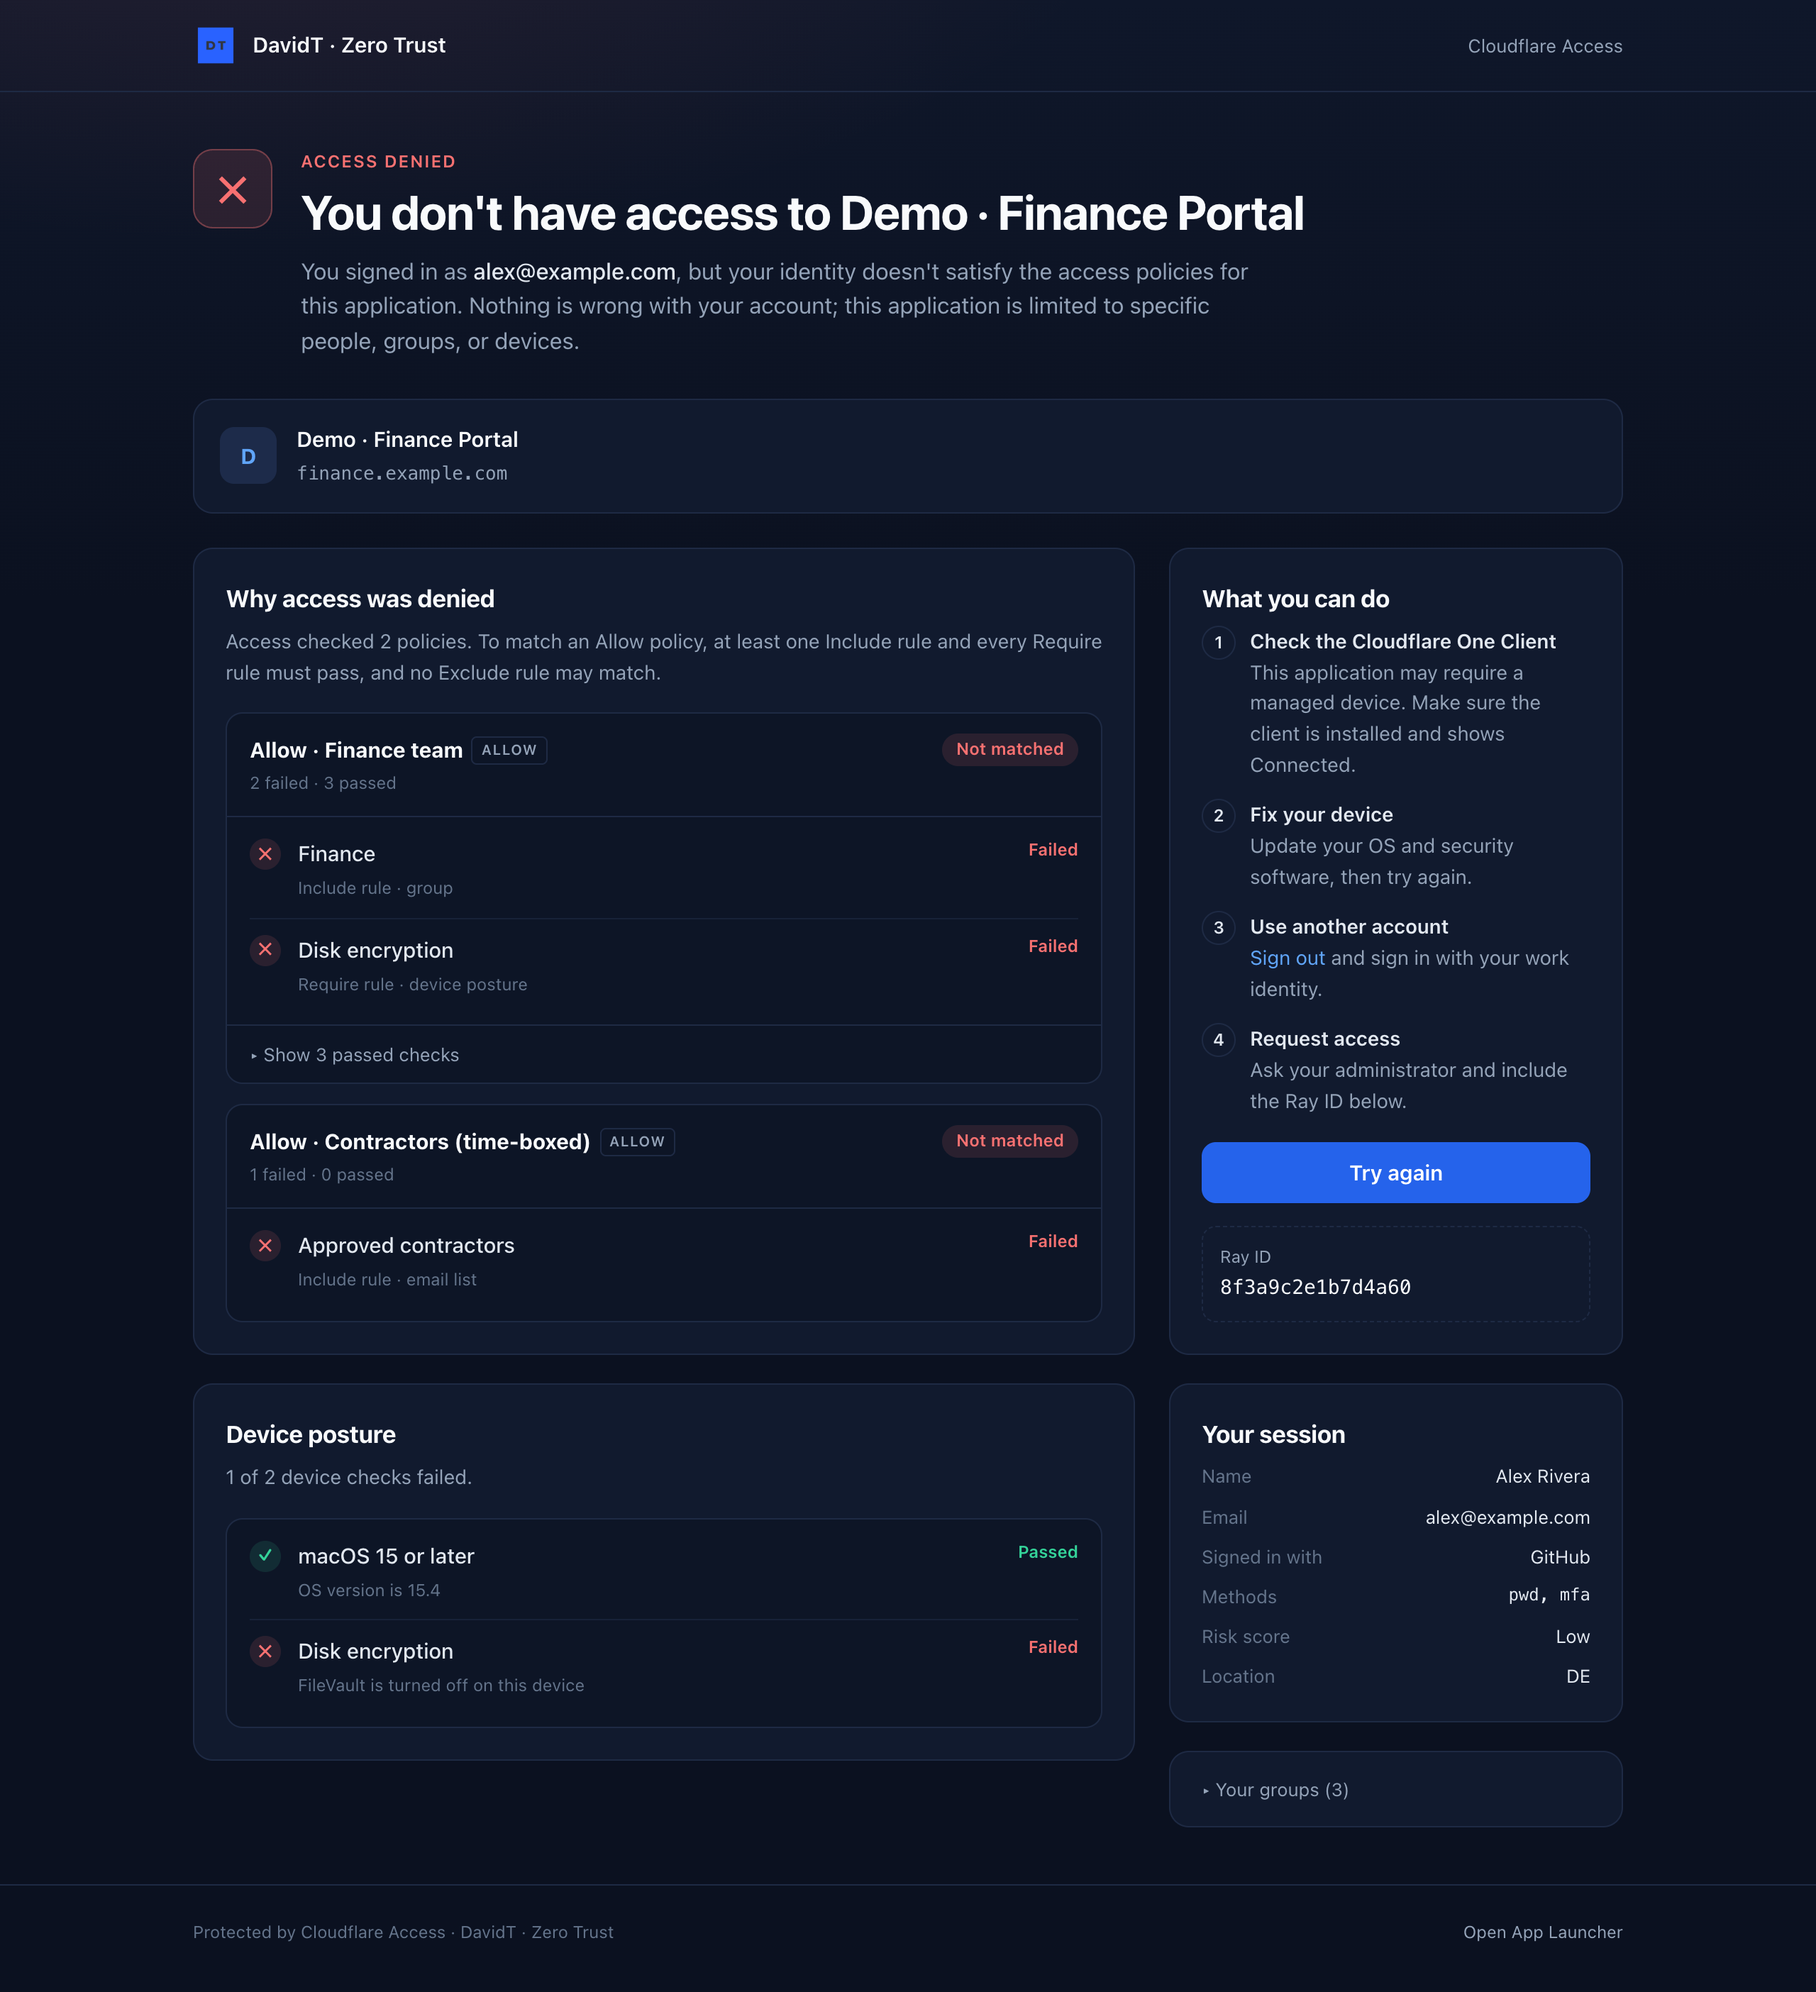
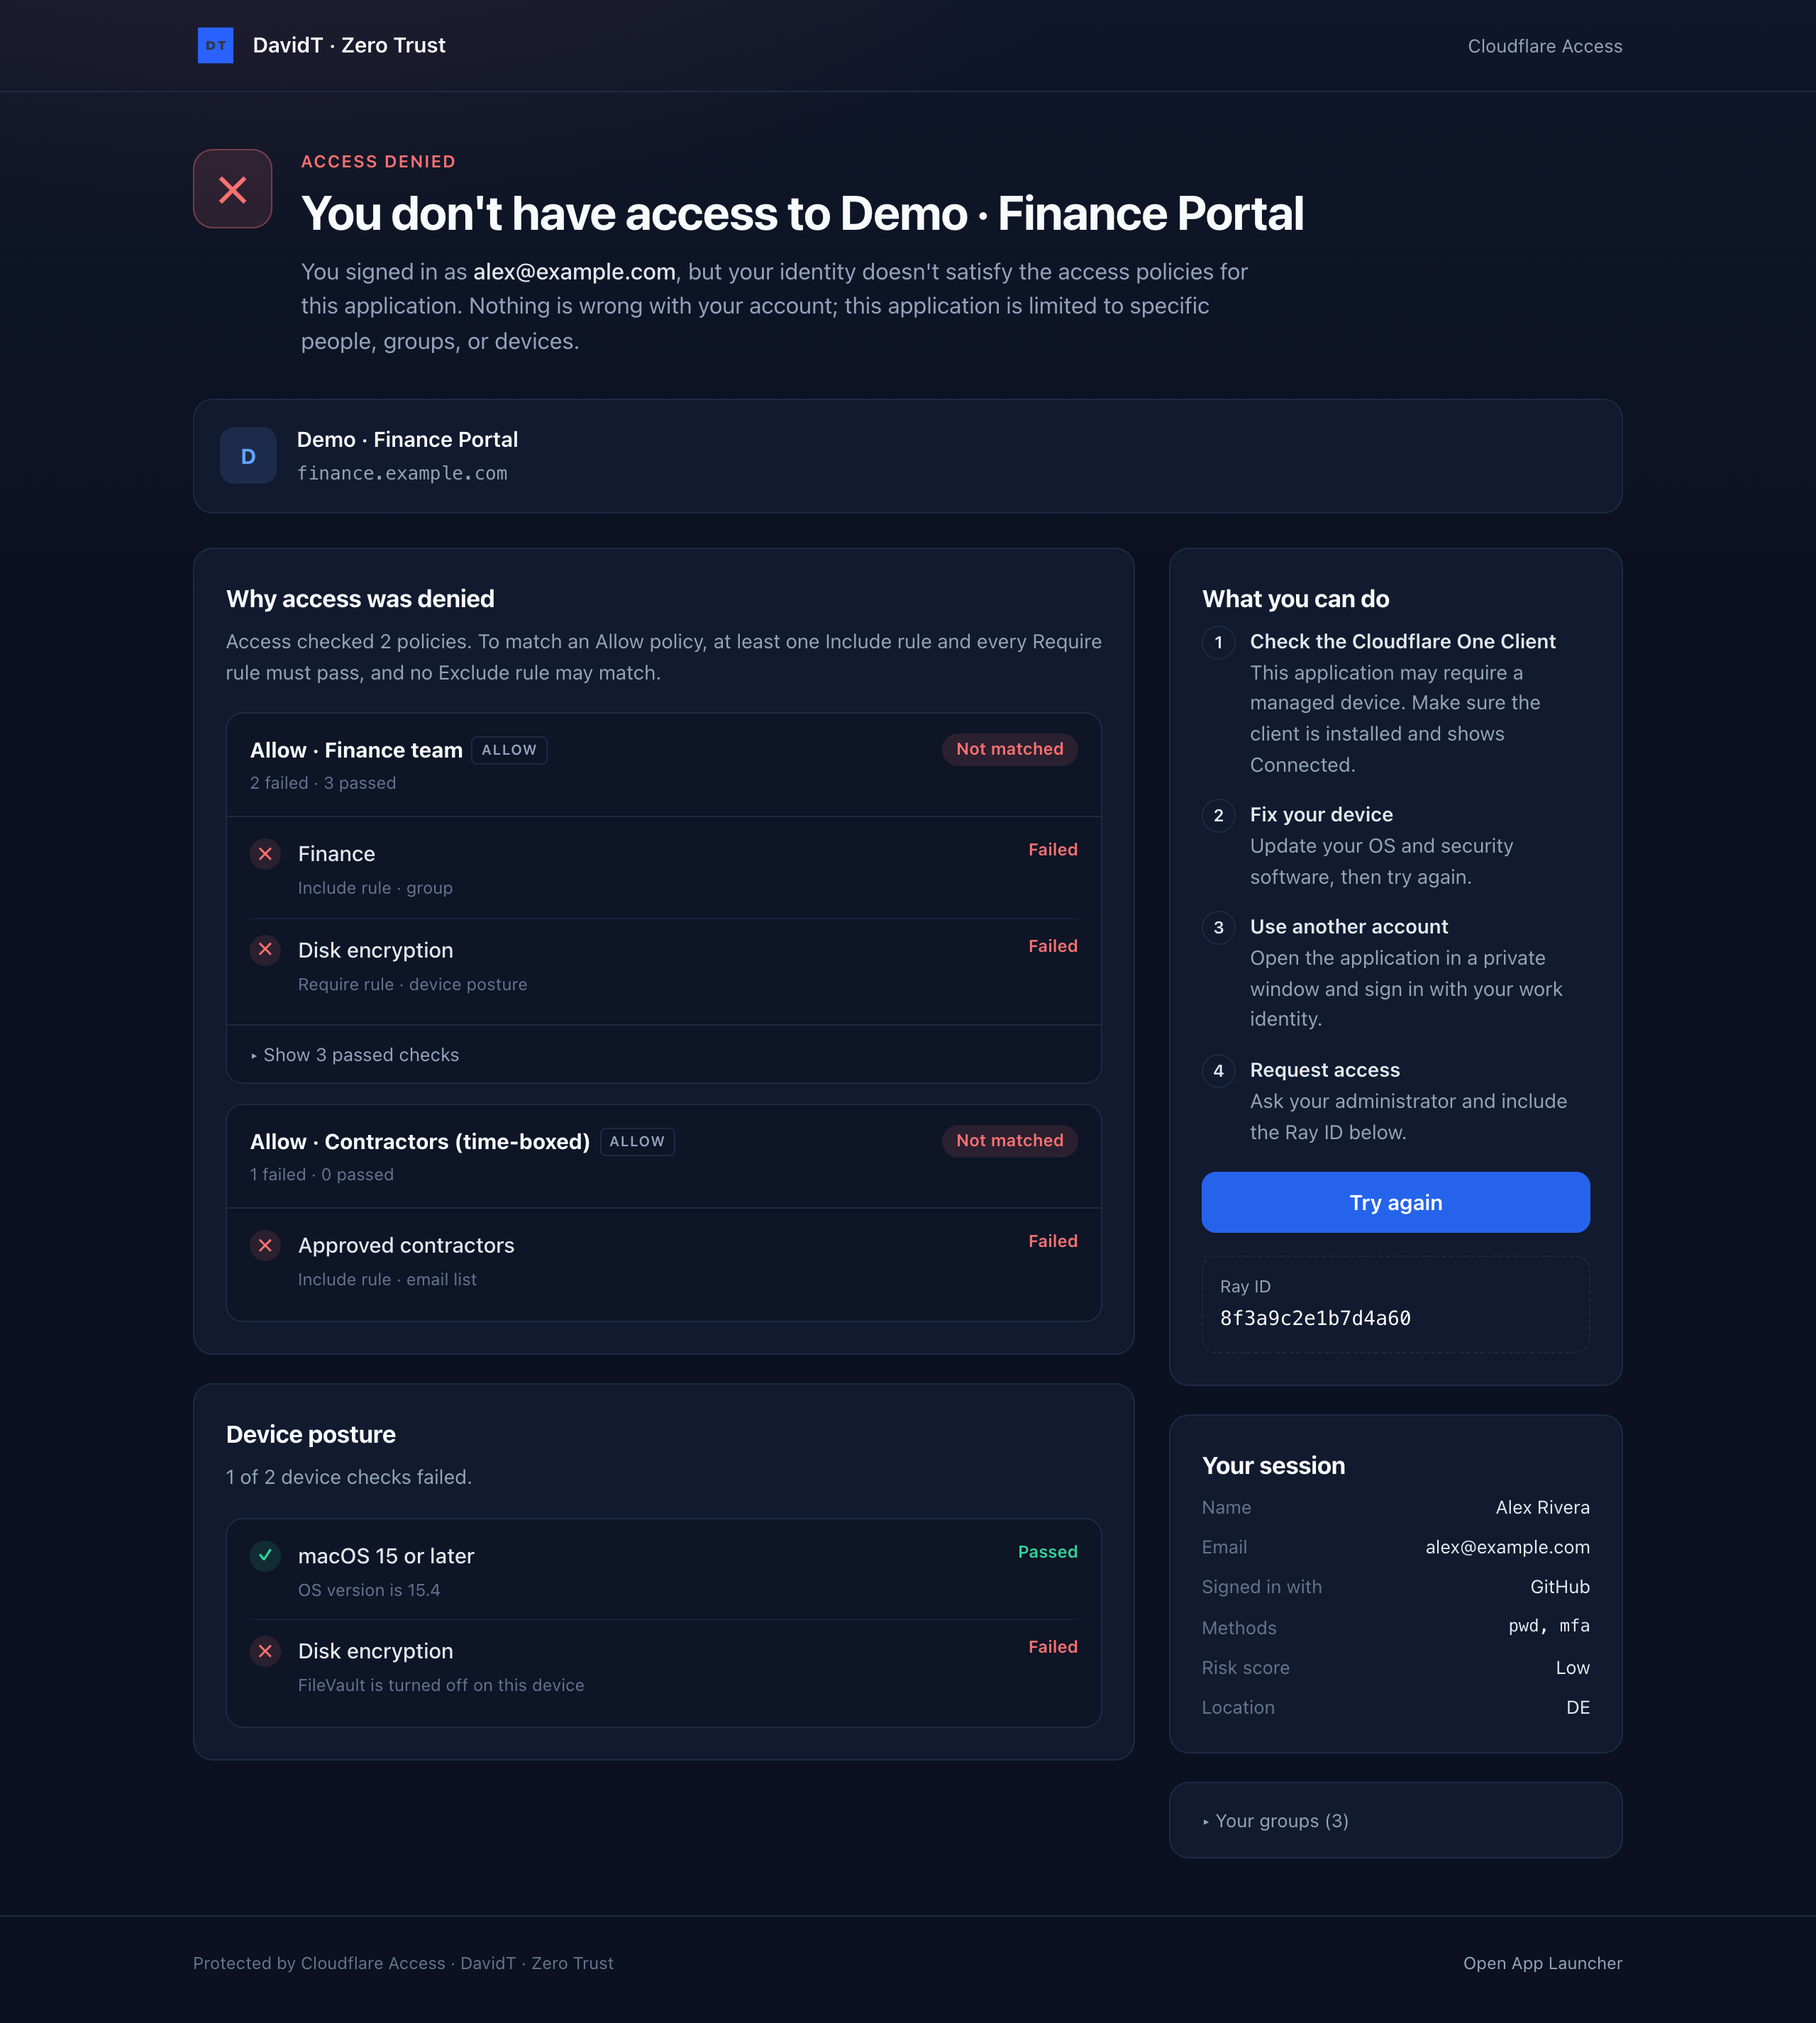
Remove sign-out links and document session behaviour
/cdn-cgi/access/logout revokes the user in every Access application and forces Cloudflare One Client re-authentication for apps that use client sessions, so the identity-denied template and the Worker now suggest a private window for switching accounts. README explains the three session clocks (client, application, global) and the logout behaviour; AGENTS.md adds the organization update gotcha.

diff --git a/access-pages/identity-denied.html b/access-pages/identity-denied.html
@@ -11,6 +11,9 @@
   Access doesn't reliably report request.is_warp or request.is_gateway (seen
   absent or false while the client was connected), so only true is shown.
 
+  There is no sign-out link on purpose: /cdn-cgi/access/logout revokes the
+  user in every application and forces Cloudflare One Client re-authentication.
+
   No scripts, SVG, <link>, <button>, <form>, or url() in CSS.
 {% endcomment %}
 {% assign brand_name = "DavidT · Zero Trust" %}
@@ -308,7 +311,7 @@
               {% if failed_checks > 0 %}
               <li><b>Fix your device</b>Update your OS and security software, then try again.</li>
               {% endif %}
-              <li><b>Use another account</b><a href="https://{{ app.domain }}/cdn-cgi/access/logout">Sign out</a> and sign in with your work identity.</li>
+              <li><b>Use another account</b>Open the application in a private window and sign in with your work identity.</li>
               <li><b>Request access</b>Ask your administrator{% if ray_id.size > 0 %} and include the Ray ID below{% endif %}.</li>
             </ol>
             <a class="cta" href="https://{{ app.domain }}">Try again</a>

diff --git a/worker/src/page.js b/worker/src/page.js
@@ -93,7 +93,9 @@ function historyPanel(failures) {
 function actionsPanel(source, identity, env, reference) {
 	const steps = [];
 	if (identity && !identity.is_warp) steps.push(['Connect the Cloudflare One Client', 'This resource may require a managed, connected device.']);
-	if (source.kind === 'access') steps.push(['Use another account', raw(`<a href="/cdn-cgi/access/logout">Sign out</a> and sign in with your work identity.`)]);
+	// No /cdn-cgi/access/logout link: it revokes the user in every application
+	// and forces Cloudflare One Client re-authentication.
+	if (source.kind === 'access') steps.push(['Use another account', 'Open the application in a private window and sign in with your work identity.']);
 	if (source.kind === 'gateway') steps.push(['Check the address', 'Look for typos, or use the approved tool for this task.']);
 	steps.push(['Ask for access', 'Contact your administrator and include the reference below.']);
 	return html`<section class="panel"><h2>What you can do</h2>

diff --git a/AGENTS.md b/AGENTS.md
@@ -37,6 +37,7 @@ This is a real account with production applications. Treat every write as produc
 1. **Read before write, snapshot, then diff.** Save the GET result before any PUT or PATCH, and compare afterwards. Keep rollback copies outside the repo.
 2. **Gateway configuration:** a `PATCH /gateway/configuration` with only `settings.block_page` removed `inspection`, `host_selector` and `sandbox` from the account. Send back the full current settings without read-only fields (`tools/cf1.mjs` does this), then verify every key.
 3. **Access applications:** `PUT /access/apps/{id}` replaces the whole object. Send the GET result back without `id`, `aud`, `created_at` and `updated_at`, with `policies` as `[{ id, precedence }]`. Reusable and inline policies can't be mixed on one app.
+   **Access organization:** `PUT /access/organizations` also replaces everything. Send the GET result without `created_at`, `updated_at`, `has_migrated_private_apps`, `trusted_accounts` and `service_token_inactivity`. When disabled, that last one reads back with `null` threshold and action, which fails with `12062 invalid_org_config`.
 4. **Don't set account defaults** for custom pages, or assign templates to existing apps, without asking. Defaults apply to every app, including private ones.
 5. **DNS changes need explicit user approval** (new hostnames, Worker custom domains). To test without DNS, add a temporary, path-scoped self-hosted app on an existing proxied hostname, set `app_launcher_visible: false`, and delete it, plus any probe templates, when you're done.
 6. Report what you changed, and anything you couldn't verify.
@@ -90,6 +91,7 @@ Observed live:
 - When the variable contract changes, update `access-pages/samples.json` with it.
 - `docs/screenshots/*.png` come from the local previews: headless Chromium at 1280px wide (390px for mobile) and 2× scale, full page for the denial pages, using only the sample data. Retake them when a template's look changes. Never capture live pages: they show real app names, identity providers and the team domain.
 - Say "Cloudflare One Client", not "WARP". `is_warp` is still the variable name.
+- Never link to `/cdn-cgi/access/logout`. It revokes the user in every application, not just one, and forces Cloudflare One Client re-authentication for apps that use client sessions. Tell users to switch accounts in a private window instead.
 - The Worker has no runtime dependencies and ships no client JavaScript: server-rendered HTML through the escaping `html` tag in `worker/src/page.js`, plus a strict CSP. Treat redirect query parameters as untrusted, and pass URLs through `safeUrl`.
 - Formatting: tabs in `.js`/`.mjs`/`.jsonc`; two spaces in HTML, CSS and JSON. Keep comments sparse and explain why, not what.
 - Sample data uses `example.com` identities. Don't put real user data in the repo.

diff --git a/README.md b/README.md
@@ -137,6 +137,19 @@ npm run demo:mode -- <access-app-id> template
 
 Both modes keep the branded login and CLI approval templates. Only the denial pages switch.
 
+## Sessions and sign-out
+
+Cloudflare One keeps three separate session clocks ([session management](https://developers.cloudflare.com/cloudflare-one/access-controls/access-settings/session-management/), [client sessions](https://developers.cloudflare.com/cloudflare-one/team-and-resources/devices/cloudflare-one-client/configure/client-sessions/)):
+
+| Session | What it controls | Where it's set |
+| --- | --- | --- |
+| Cloudflare One Client | Apps with **Authenticate with Cloudflare One Client** on, which open without a browser sign-in | Access settings → Cloudflare One Client authentication (`warp_auth_session_duration`, up to 90 days) |
+| Application | One application's cookie | The app's or policy's session duration |
+| Global | Browser single sign-on across applications | Access settings → global session duration |
+
+- The per-app **Authenticate with Cloudflare One Client** setting overrides the org-wide one, so it applies to individual apps even when the org-wide switch is off.
+- `/cdn-cgi/access/logout` isn't per-app. It revokes the user in every application, and the Cloudflare One Client must then re-authenticate for apps that use client sessions. These pages don't link to it; to switch accounts, use a private window.
+
 ## Layout
 
 ```
